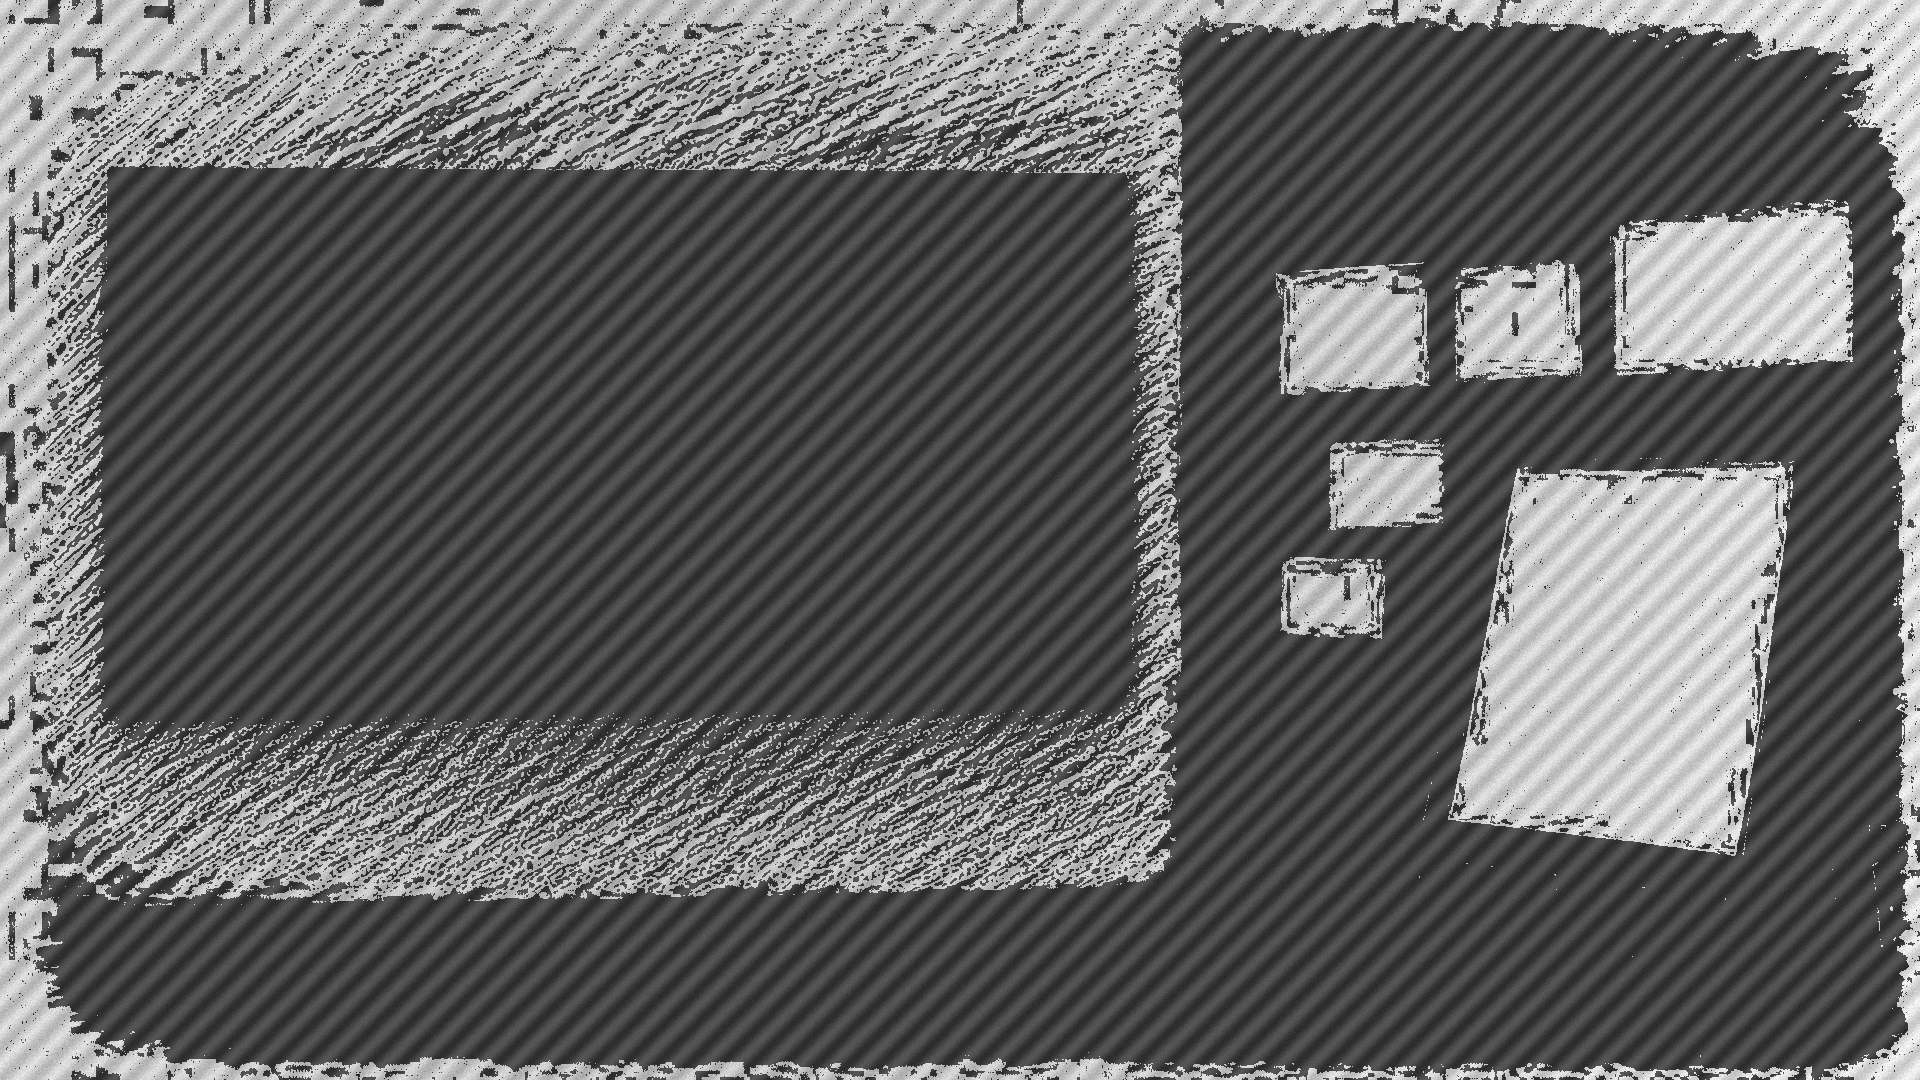
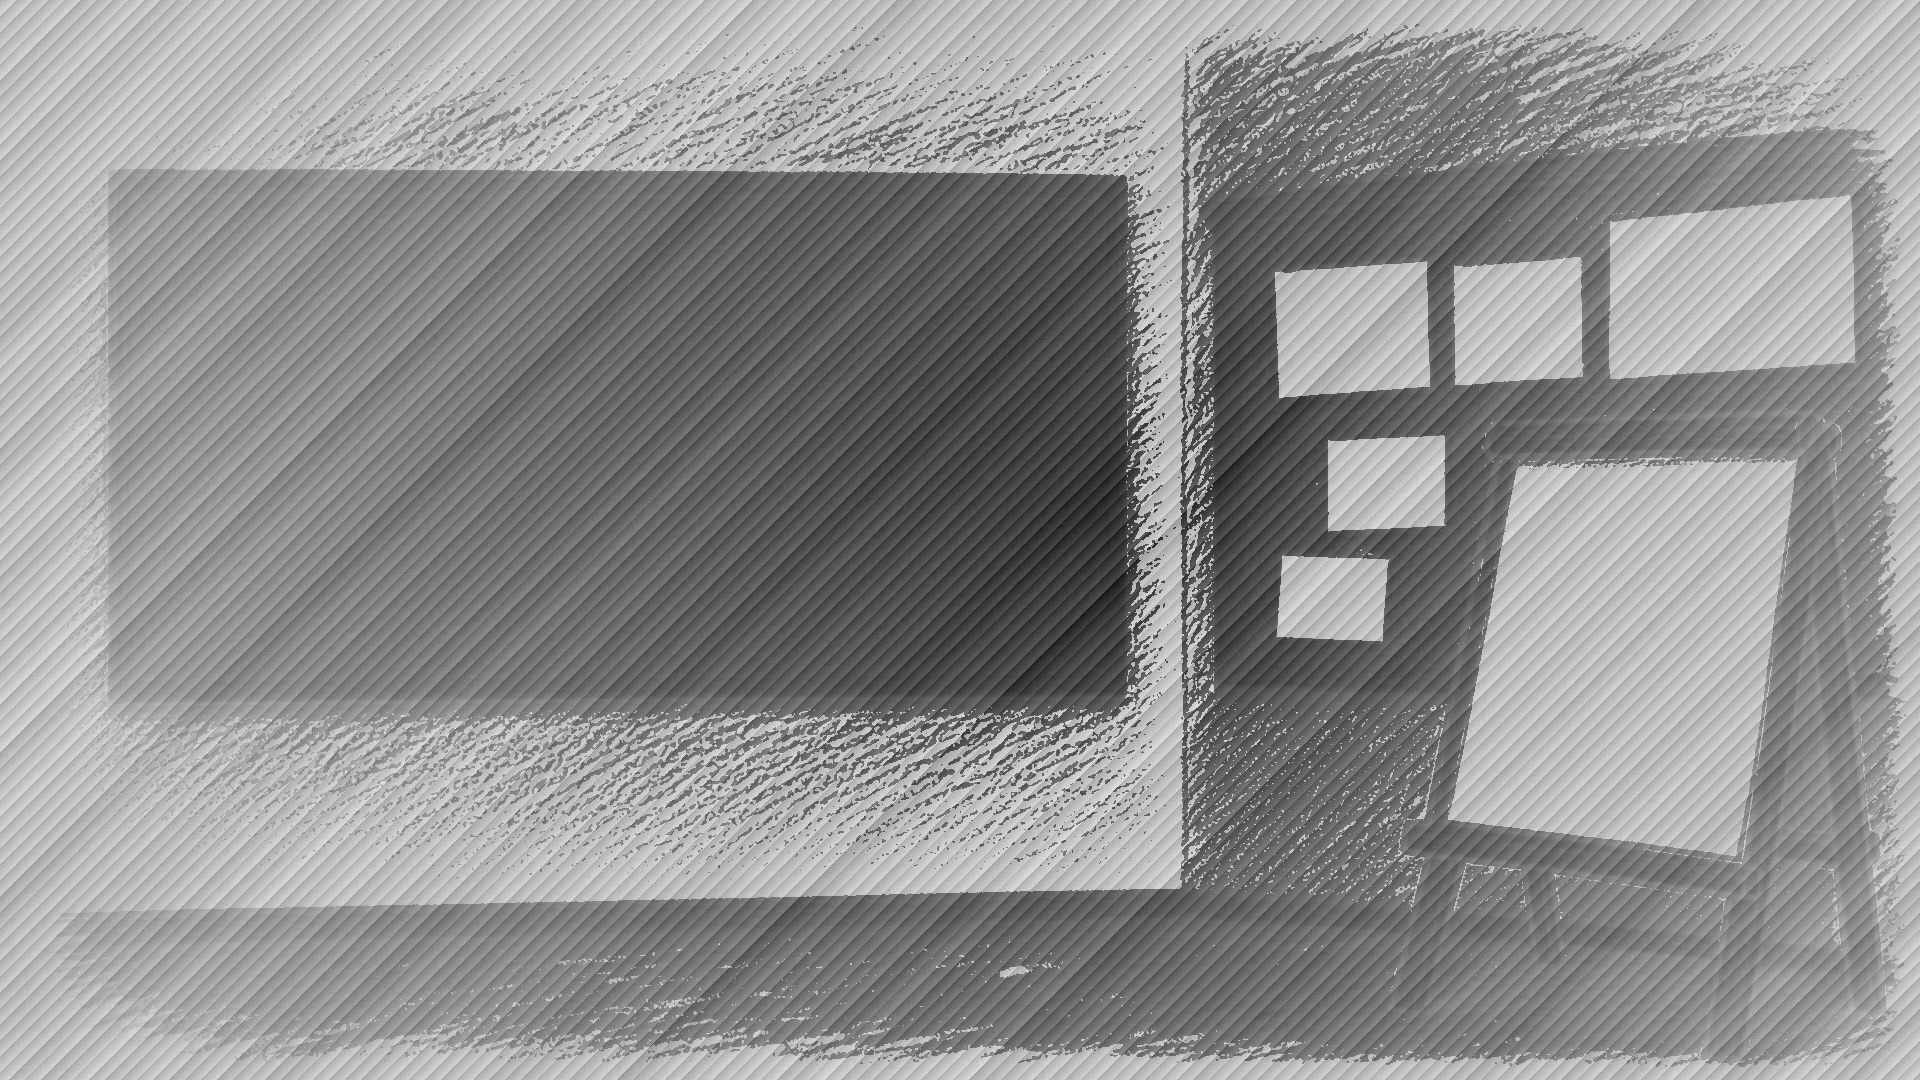
Leo art batch: s01/keyterms HAND-MADE draw-in, sheet_flat for 19-21
Wire Leo redrawn s01 cover and keyterms cork-board with HAND-MADE
line/line_order/hatch_mask (webp). Replace sheet_large counter-rotate
on discuss/refs with upright sheet_flat; tools use sheet_flat_wide.
Confirm s04 journal_page sprite stays unmounted. BIRAC remains
data-driven (BIRAC_HAS_FIFTH_BLOCK) for upcoming faces.json.

diff --git a/public/diy-pbl-bookshare/bs-pages.js b/public/diy-pbl-bookshare/bs-pages.js
@@ -117,7 +117,7 @@ function loopOrOnce(T, node, keyframes, t, d) {
 /* ---- per-slide builds from loop.md ---- */
 function buildS01(root, T) {
   const p = P("s01");
-  // TEXT-ON-ART: book baked into bg_cover; no cover_display sprite
+  // TEXT-ON-ART: book baked into Leo redrawn cover bg; no cover_display sprite
   const marble = sprite(root, "s01", "marble", "s01-marble", p.marble);
   const gear = sprite(root, "s01", "gear", "s01-gear", p.gear);
   const title = h("div", "bs-surface bs-surface--titleblock s01-titleblock on-art");
@@ -177,7 +177,7 @@ function buildS03(root, T) {
 }
 
 function buildS04(root, T) {
-  // TEXT-ON-ART: no journal_page sprite (stray curled note on the open book).
+  // Leo: curled note was the journal_page sprite (not bg). Keep it unmounted.
   void root; void T;
 }
 
@@ -558,25 +558,25 @@ export const PAGES = SLIDES.map((slide) => ({
       buildKeyTermsOverlay(root, T, slide.bullets || []);
       buildKeytermsArt(root, T);
     } else if (slide.kind === "discuss") {
-      // One rotated group: paper + text share -1deg so ink sits on the sheet
+      // Leo sheet_flat (972x1300): upright ruled page, no counter-rotation
       const group = h("div", "bs-paper-group");
-      applyRect(group, 50, 30, 920, 1020, 0);
+      applyRect(group, 520, 20, 780, 1040, 0);
       group.style.transformOrigin = "50% 50%";
-      const paper = img(`${PAPER}/sheet_large.webp`, "bs-paper");
+      const paper = img(`${PAPER}/sheet_flat.webp`, "bs-paper");
       paper.setAttribute("aria-hidden", "true");
-      // sheet_large has ~13deg baked clockwise tilt; counter-rotate so ruled lines are horizontal
-      paper.style.cssText = "position:absolute;left:-6%;top:-4%;width:112%;height:112%;object-fit:fill;transform:rotate(-12deg);transform-origin:50% 50%;";
+      paper.style.cssText = "position:absolute;inset:0;width:100%;height:100%;object-fit:fill;";
       group.appendChild(paper);
       const tape1 = img(`${PAPER}/tape_a.webp`, "bs-paper-tape");
       tape1.setAttribute("aria-hidden", "true");
-      tape1.style.cssText = "position:absolute;left:8%;top:2%;width:22%;height:6%;object-fit:fill;transform:rotate(-4deg);z-index:8;";
+      tape1.style.cssText = "position:absolute;left:8%;top:1%;width:22%;height:5%;object-fit:fill;transform:rotate(-3deg);z-index:8;";
       group.appendChild(tape1);
       const tape2 = img(`${PAPER}/tape_b.webp`, "bs-paper-tape");
       tape2.setAttribute("aria-hidden", "true");
-      tape2.style.cssText = "position:absolute;right:10%;top:3%;width:22%;height:6%;object-fit:fill;transform:rotate(4deg);z-index:8;";
+      tape2.style.cssText = "position:absolute;right:8%;top:1.5%;width:22%;height:5%;object-fit:fill;transform:rotate(3deg);z-index:8;";
       group.appendChild(tape2);
       const panel = surface("discuss", "bs-discuss on-art");
-      panel.style.cssText = "position:absolute;left:18%;top:16%;width:64%;height:70%;overflow:hidden;box-sizing:border-box;padding:0;font-size:clamp(11px,1.15cqw,19px);";
+      // Text inside the red ruled margins of sheet_flat
+      panel.style.cssText = "position:absolute;left:14%;top:12%;width:72%;height:76%;overflow:hidden;box-sizing:border-box;padding:0;font-size:clamp(11px,1.15cqw,19px);";
       (slide.questions || []).forEach((q, i) => {
         const card = h("div", `bs-dq-card dq${i} bs-reveal`);
         card.innerHTML = `<b>Q${i + 1}.</b> ${fx(q)}`;
@@ -589,19 +589,19 @@ export const PAGES = SLIDES.map((slide) => ({
       const nRes = (slide.resources || []).length;
       const isTools = /tools/i.test(slide.title || "") || nRes <= 4;
       if (isTools) {
+        // Leo sheet_flat_wide (1320x1020): upright landscape ruled page
         const group = h("div", "bs-paper-group");
-        applyRect(group, 60, 140, 900, 580, 0);
-        const paper = img(`${PAPER}/torn_page.webp`, "bs-paper");
+        applyRect(group, 180, 90, 1400, 900, 0);
+        const paper = img(`${PAPER}/sheet_flat_wide.webp`, "bs-paper");
         paper.setAttribute("aria-hidden", "true");
         paper.style.cssText = "position:absolute;inset:0;width:100%;height:100%;object-fit:fill;";
         group.appendChild(paper);
         const tape = img(`${PAPER}/tape_a.webp`, "bs-paper-tape");
         tape.setAttribute("aria-hidden", "true");
-        tape.style.cssText = "position:absolute;left:38%;top:-2%;width:26%;height:12%;object-fit:fill;transform:rotate(-4deg);z-index:8;";
+        tape.style.cssText = "position:absolute;left:38%;top:-1%;width:18%;height:7%;object-fit:fill;transform:rotate(-3deg);z-index:8;";
         group.appendChild(tape);
         const panel = surface("resources", "bs-resources-panel bs-resources-panel--compact bs-reveal on-art");
-        // torn_page: keep text >=130px from left punched holes (~15% of 880)
-        panel.style.cssText = "position:absolute;left:16%;top:14%;width:72%;height:72%;overflow:hidden;box-sizing:border-box;";
+        panel.style.cssText = "position:absolute;left:14%;top:12%;width:72%;height:76%;overflow:hidden;box-sizing:border-box;";
         const heading = h("div", "bs-res-h on-art-t");
         heading.textContent = slide.resHeading || slide.title || "Tools";
         panel.appendChild(heading);
@@ -615,22 +615,23 @@ export const PAGES = SLIDES.map((slide) => ({
         group.appendChild(panel);
         root.appendChild(group);
       } else {
+        // Leo sheet_flat (972x1300): upright tall ruled page for APA references
         const group = h("div", "bs-paper-group");
-        applyRect(group, 40, 20, 940, 1040, 0);
-        const paper = img(`${PAPER}/sheet_large.webp`, "bs-paper");
+        applyRect(group, 500, 20, 800, 1040, 0);
+        const paper = img(`${PAPER}/sheet_flat.webp`, "bs-paper");
         paper.setAttribute("aria-hidden", "true");
-        paper.style.cssText = "position:absolute;left:-6%;top:-4%;width:112%;height:112%;object-fit:fill;transform:rotate(-12deg);transform-origin:50% 50%;";
+        paper.style.cssText = "position:absolute;inset:0;width:100%;height:100%;object-fit:fill;";
         group.appendChild(paper);
         const tape1 = img(`${PAPER}/tape_a.webp`, "bs-paper-tape");
         tape1.setAttribute("aria-hidden", "true");
-        tape1.style.cssText = "position:absolute;left:8%;top:2%;width:22%;height:6%;object-fit:fill;transform:rotate(-4deg);z-index:8;";
+        tape1.style.cssText = "position:absolute;left:8%;top:1%;width:22%;height:5%;object-fit:fill;transform:rotate(-3deg);z-index:8;";
         group.appendChild(tape1);
         const tape2 = img(`${PAPER}/tape_b.webp`, "bs-paper-tape");
         tape2.setAttribute("aria-hidden", "true");
-        tape2.style.cssText = "position:absolute;right:10%;top:3%;width:22%;height:6%;object-fit:fill;transform:rotate(4deg);z-index:8;";
+        tape2.style.cssText = "position:absolute;right:8%;top:1.5%;width:22%;height:5%;object-fit:fill;transform:rotate(3deg);z-index:8;";
         group.appendChild(tape2);
         const panel = surface("resources", "bs-resources-panel bs-reveal on-art");
-        panel.style.cssText = "position:absolute;left:14%;top:12%;width:72%;height:78%;overflow:hidden;box-sizing:border-box;";
+        panel.style.cssText = "position:absolute;left:14%;top:12%;width:72%;height:76%;overflow:hidden;box-sizing:border-box;";
         const heading = h("div", "bs-res-h on-art-t");
         heading.textContent = slide.resHeading || slide.title || "References";
         panel.appendChild(heading);
